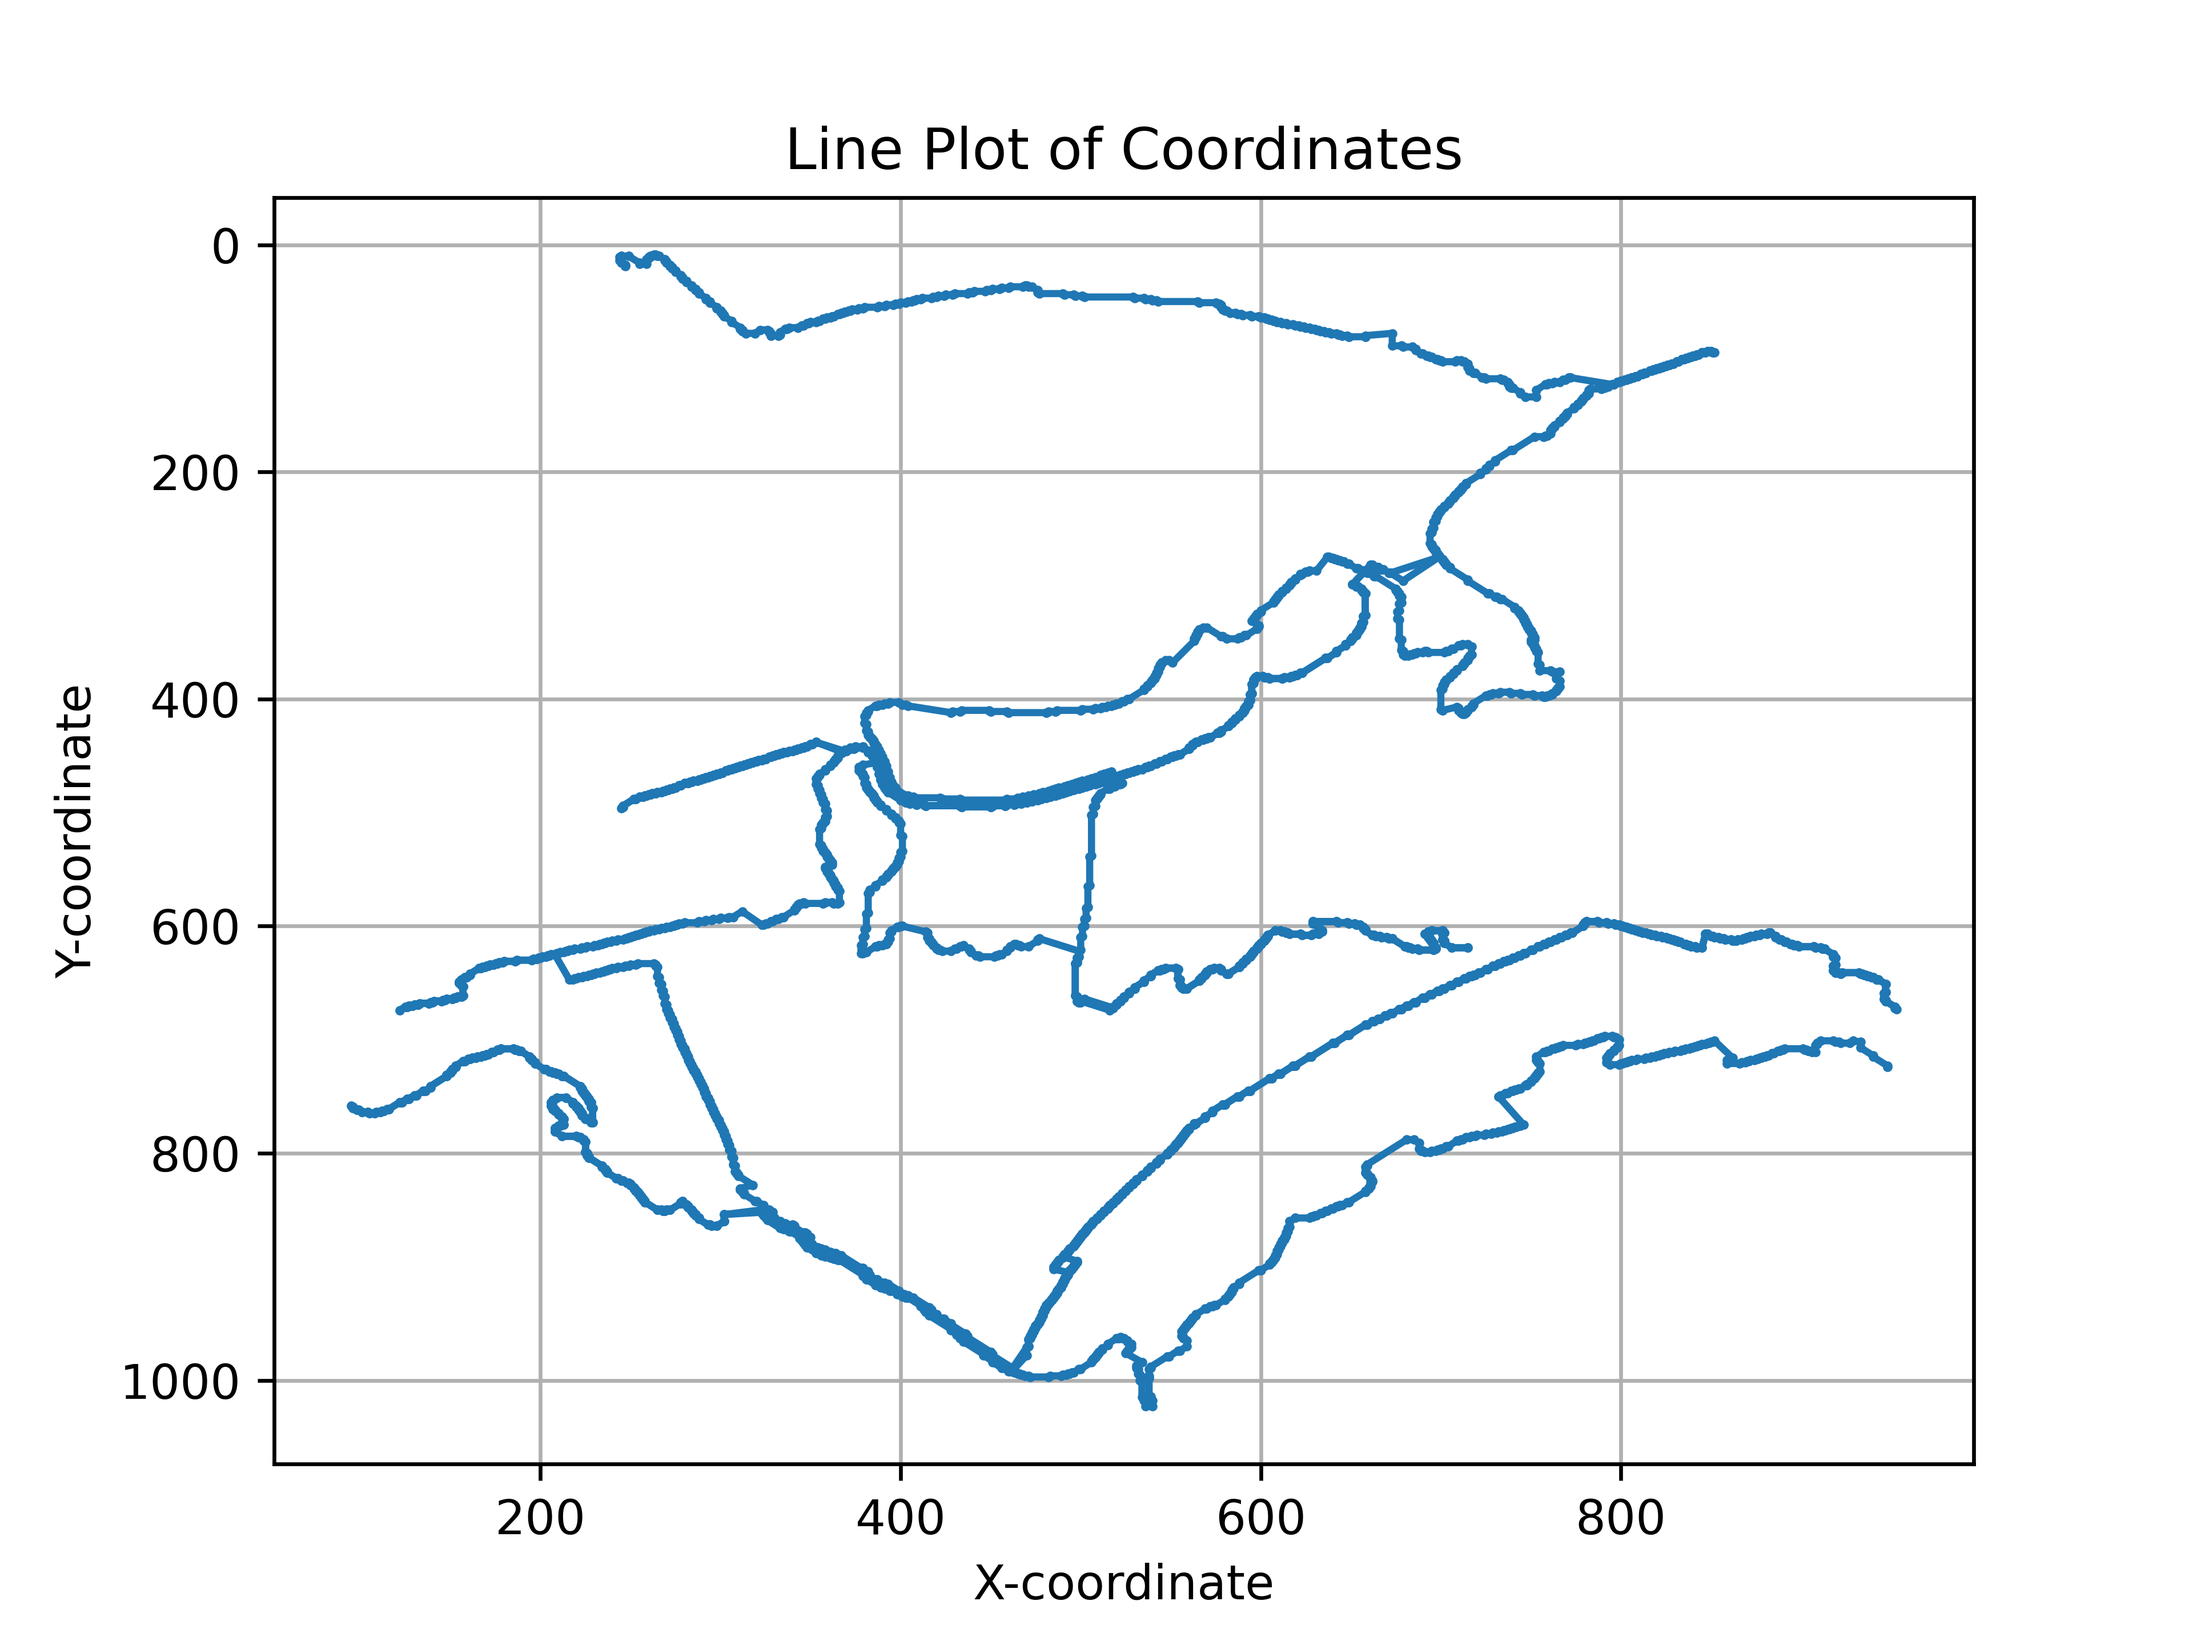
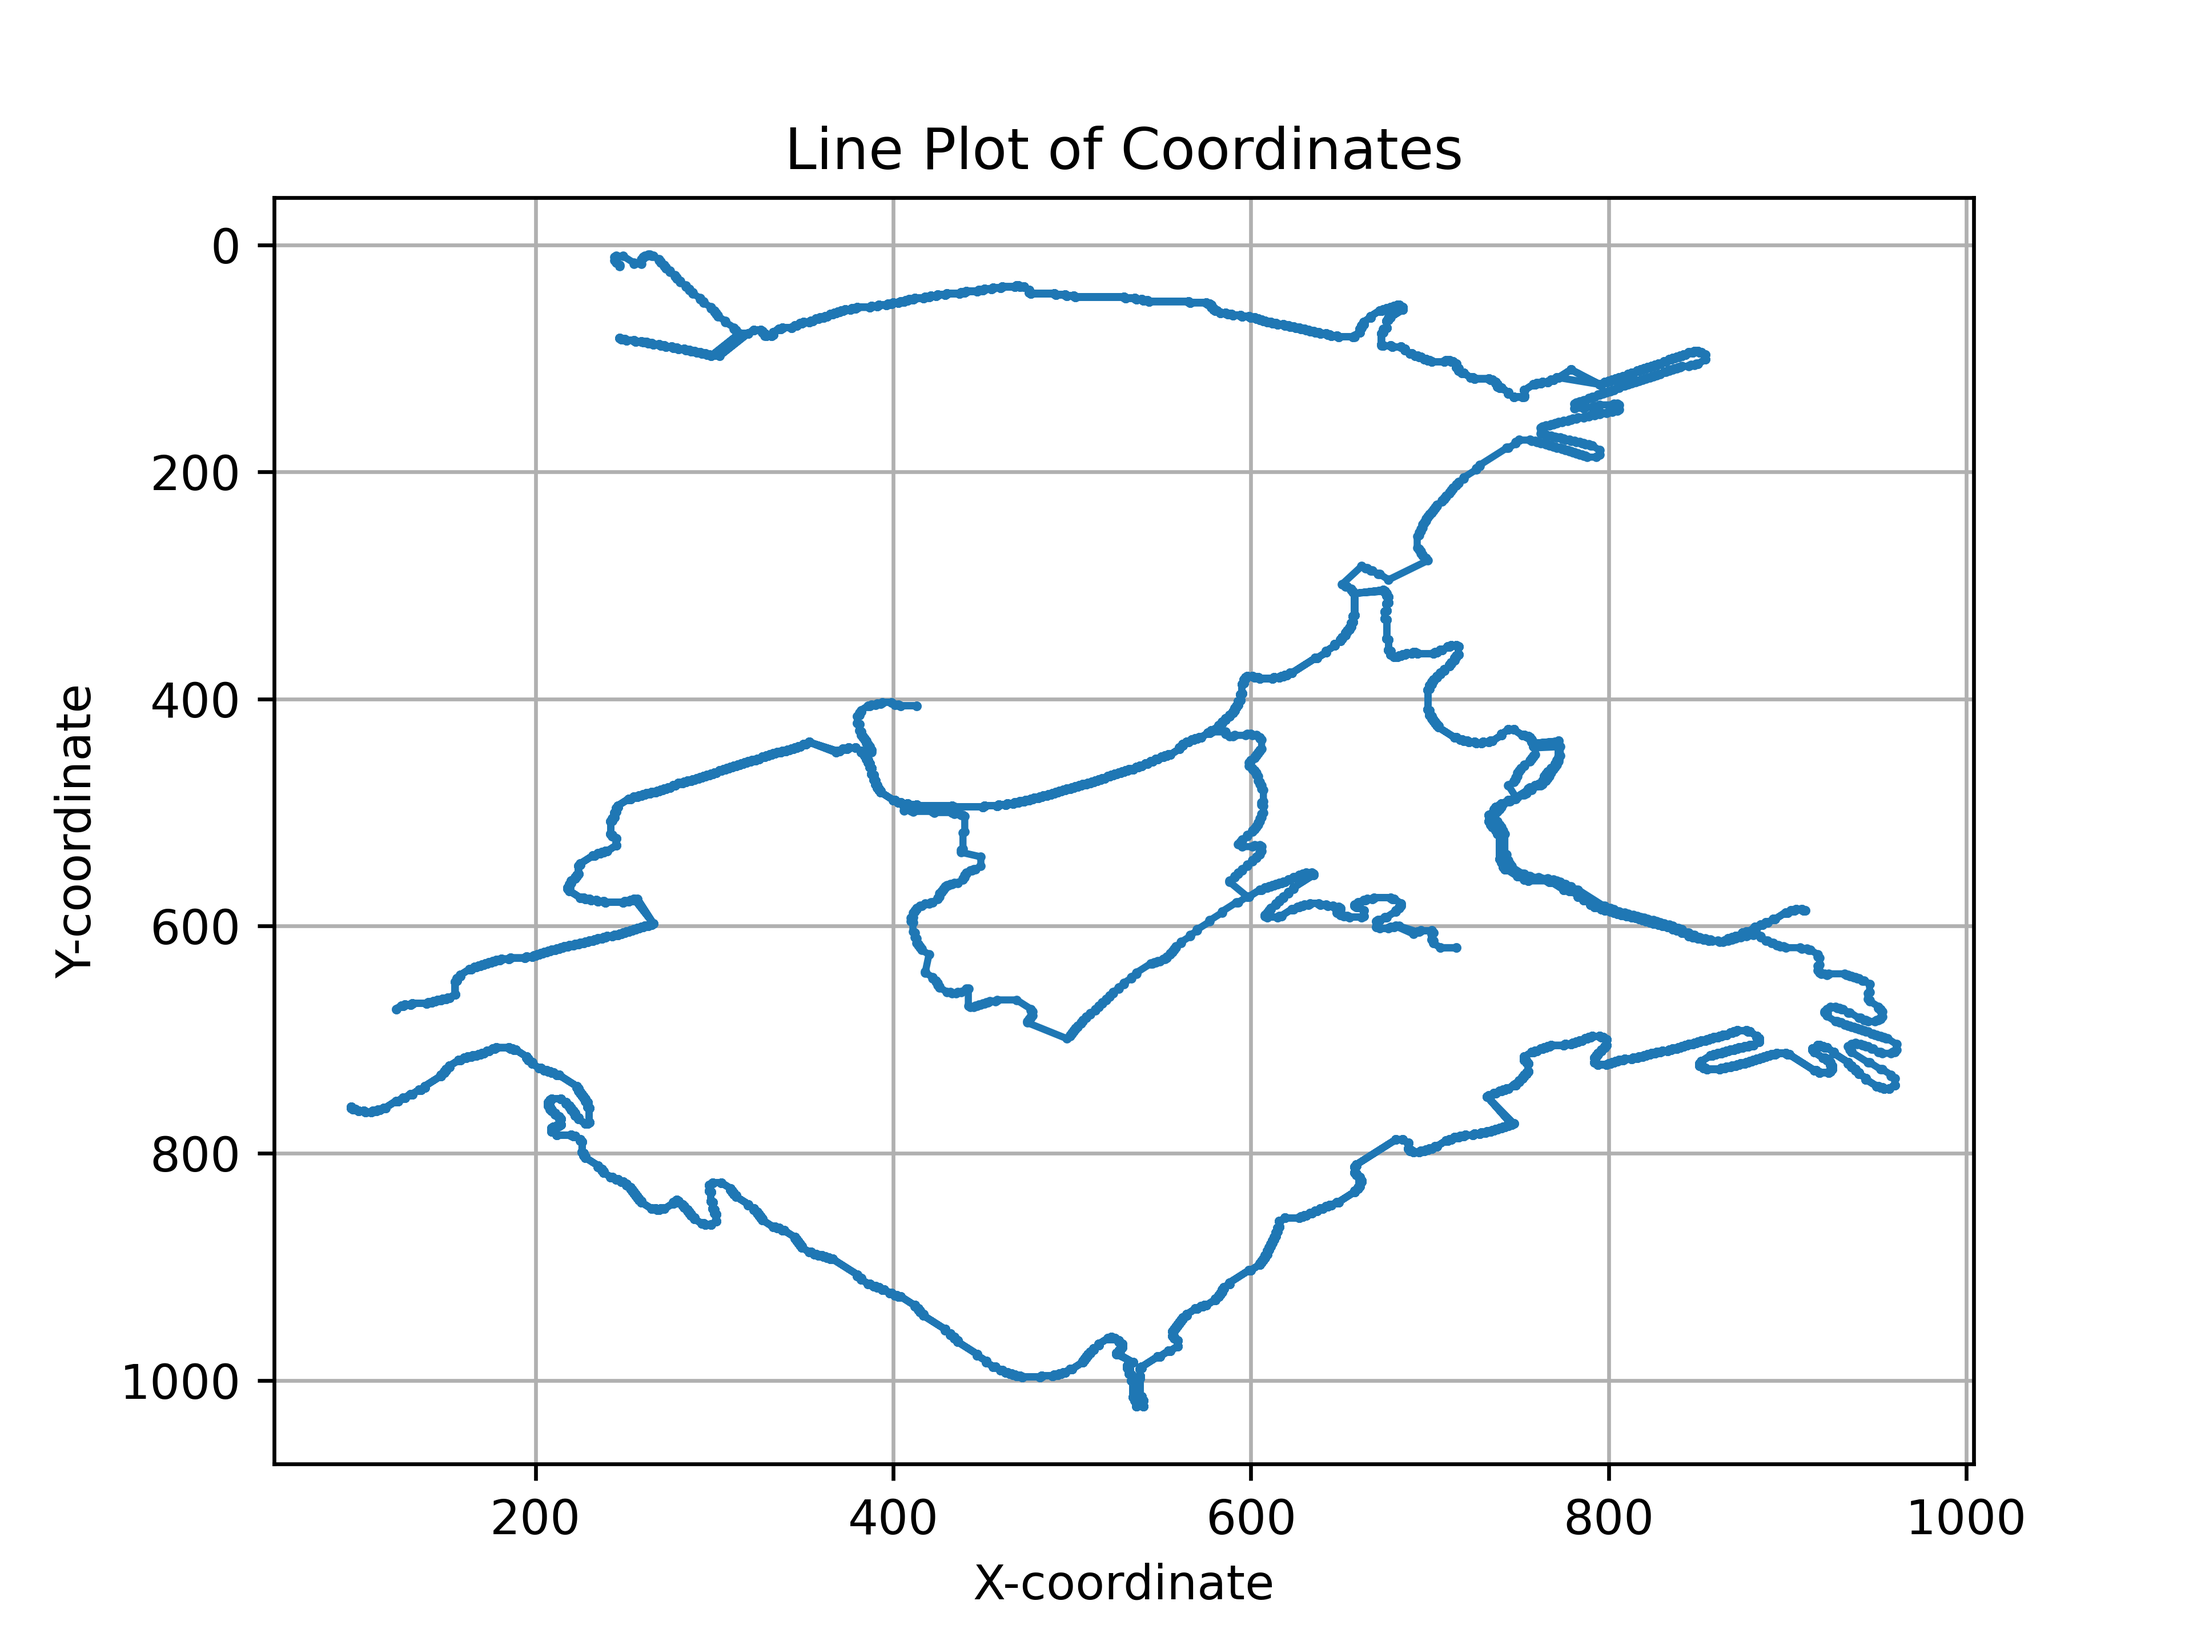
Set up variable inner weights

diff --git a/helpers/mazify/EdgePath.py b/helpers/mazify/EdgePath.py
@@ -9,15 +9,24 @@ import helpers.mazify.MazeSections as sections
 from helpers.Enums import NodeType
 
 class EdgePath:
-    def __init__(self, path_num, path_raw, maze_sections: sections.MazeSections, is_outer=False):
+    def __init__(self, path_num, path_raw, maze_sections: sections.MazeSections, is_outer=False,
+                 max_inner_contour_len=0):
         self.path, self.num = [], path_num
         self.outer = is_outer
         self.closed = True #assert closed
         self.section_tracker, self.section_tracker_red_nd_doubled = [], None
-        self.parse_path(path_raw, maze_sections, is_outer)
+        if options.inner_contour_variable_weights and not is_outer and max_inner_contour_len > 0:
+            #Set custom weight based on contour length
+            custom_weight = options.dumb_node_optional_weight + ((max_inner_contour_len - len(path_raw))//
+                      (max_inner_contour_len//
+                       (options.dumb_node_optional_max_variable_weight - options.dumb_node_optional_weight + 1)))
+            self.parse_path(path_raw, maze_sections, is_outer, custom_weight)
+        else:
+            self.parse_path(path_raw, maze_sections, is_outer)
 
 
-    def parse_path(self, path, maze_sections: sections.MazeSections, is_outer=False):
+    def parse_path(self, path, maze_sections: sections.MazeSections, is_outer=False,
+                   custom_weight=0):
         #Determine explicit directions
         dys,dxs = [],[]
         for i in range(len(path)):
@@ -46,6 +55,7 @@ class EdgePath:
         prev_tracker, cur_tracker = None, None
         first_graph_node, prev_graph_node, last_graph_node = None, None, None
         edge_weight = options.dumb_node_required_weight if is_outer else options.dumb_node_optional_weight
+        if custom_weight > 0: edge_weight = custom_weight
         for i in range(len(path)):
             node = EdgeNode.EdgeNode(path[i][0], path[i][1], self, path_rev_dirs[i], path_rev_dirs_smoothed[i],
                                      path_fwd_dirs[i], path_fwd_dirs_smoothed[i], path_displs[i], is_outer)

diff --git a/helpers/mazify/MazeAgent.py b/helpers/mazify/MazeAgent.py
@@ -34,8 +34,10 @@ class MazeAgent:
         self.all_edges_bool, self.all_contours = (np.where(self.outer_edges + self.inner_edges > 0, True, False),
                                              self.outer_contours + self.inner_contours)
         self.all_contours_objects, self.outer_contours_objects, self.inner_contours_objects  = [], [], []
+        max_inner_contour_len = max([len(contour) for contour in self.inner_contours])
         for i in range(len(self.all_contours)):
-            new_path = EdgePath(i + 1, self.all_contours[i], maze_sections, i < len(self.outer_contours))
+            new_path = EdgePath(i + 1, self.all_contours[i], maze_sections, i < len(self.outer_contours),
+                                max_inner_contour_len)
             self.all_contours_objects.append(new_path)
             if new_path.outer: self.outer_contours_objects.append(new_path)
             else: self.inner_contours_objects.append(new_path)
@@ -345,7 +347,7 @@ class MazeAgent:
                 if next_sect is not None and len(next_sect) == 4:
                     #Tracker identified, check if prev sect lines up
                     trackers_in_path = len(cur_tracker.path.section_tracker)
-                    tracker_modulo = trackers_in_path if path_closed else 99999
+                    tracker_modulo = trackers_in_path if path_closed else 999999
                     if (next_sect[2] != cur_sect[2] or cur_sect[3] not in
                         ((next_sect[3] + 1)%tracker_modulo, (next_sect[3] - 1)%tracker_modulo)):
                         raise exception("Something screwy with tracking")

diff --git a/helpers/mazify/temp_options.py b/helpers/mazify/temp_options.py
@@ -19,9 +19,10 @@ slic_regions = 7
 dir_smoothing_size, dir_smoothing_sigma = 21, 2.0
 
 dumb_node_optional_weight = 1
+dumb_node_optional_max_variable_weight = 6 #Turn on with inner_contour_variable_weights
 dumb_node_min_opt_weight_reduced = 1
 dumb_node_blank_weight = 200
-dumb_node_jump_weight = 2
+dumb_node_jump_weight = 3 #NOTE: should be 1/2 cost of jump, since always jumps 2x to get to next path in section
 dumb_node_required_weight = 1
 
 section_tracker_max_walk = 20
@@ -29,12 +30,13 @@ section_tracker_max_walk = 20
 max_inner_path_seg_manhatten_length = 50
 
 outer_contour_length_cutoff = 200
-inner_contour_length_cutoff = 60
+inner_contour_length_cutoff = 20
+inner_contour_variable_weights = True #Shorter contours get higher weight, so less preferable
 
 snake_trace_max_jump_from_outer = 2
 snake_details_polygon_faces = 7
 
-typewriter_lines = 4 #MUST BE AT LEAST 2!!!
+typewriter_lines = 9 #MUST BE AT LEAST 2!!!
 typewriter_traverse_threshold = 0.5 #Ratio of region height to typewriter line height
 
 zigzag_typewriter_lines = 4 #MUST BE AT LEAST 2!!!

diff --git a/helpers/edge_detect/SLIC_Segmentation.py b/helpers/edge_detect/SLIC_Segmentation.py
@@ -223,6 +223,9 @@ def slic_image_boundary_edges(im_float, num_segments:int =2, enforce_connectivit
 
 		flipped_contours.extend(processed_contours)
 
+	flipped_contours = [c for c in flipped_contours if len(c) > options.inner_contour_length_cutoff]
+	flipped_contours.sort(key=lambda p: len(p), reverse=True)
+
 	return edges, flipped_contours, segments, num_segs_actual, ((min_y, min_x), (max_y, max_x))
 
 def remove_perimeter_ghosting(points_list, max_y, max_x):
